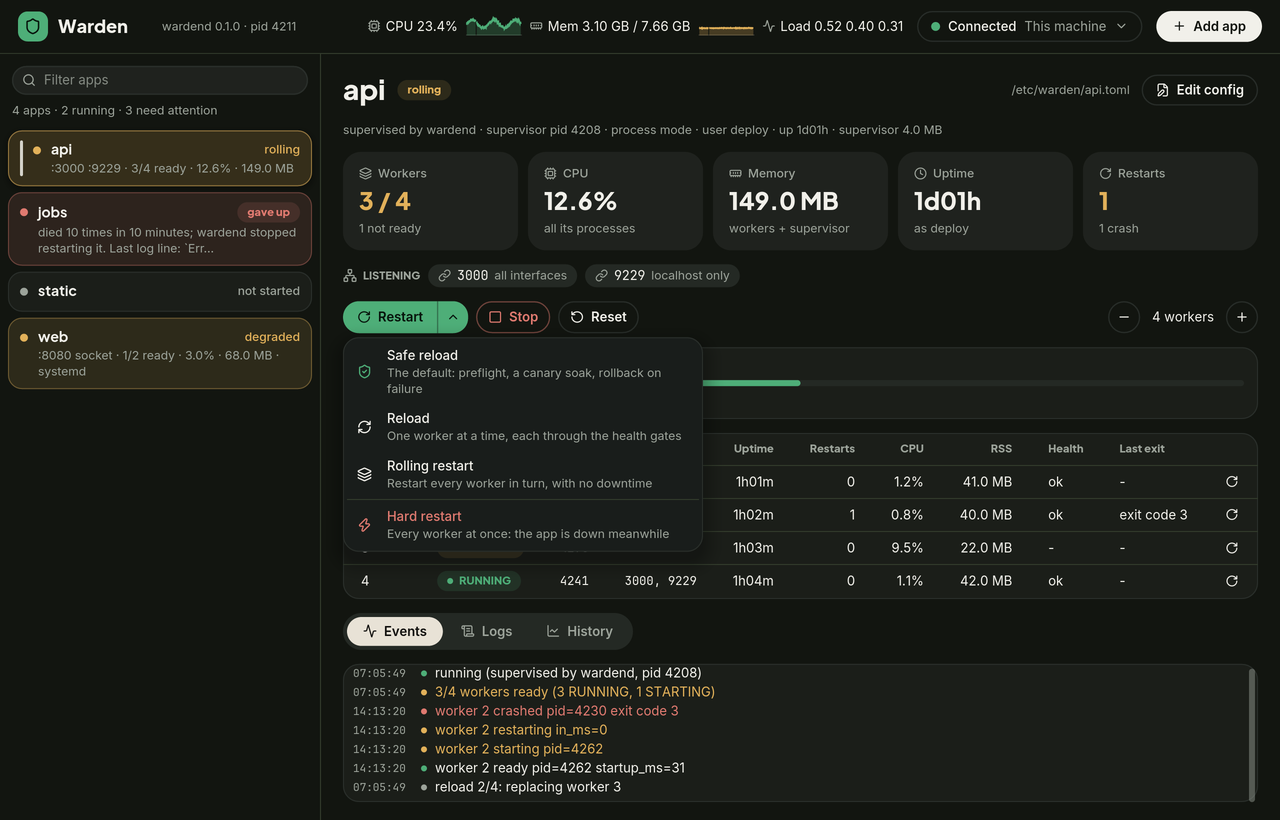
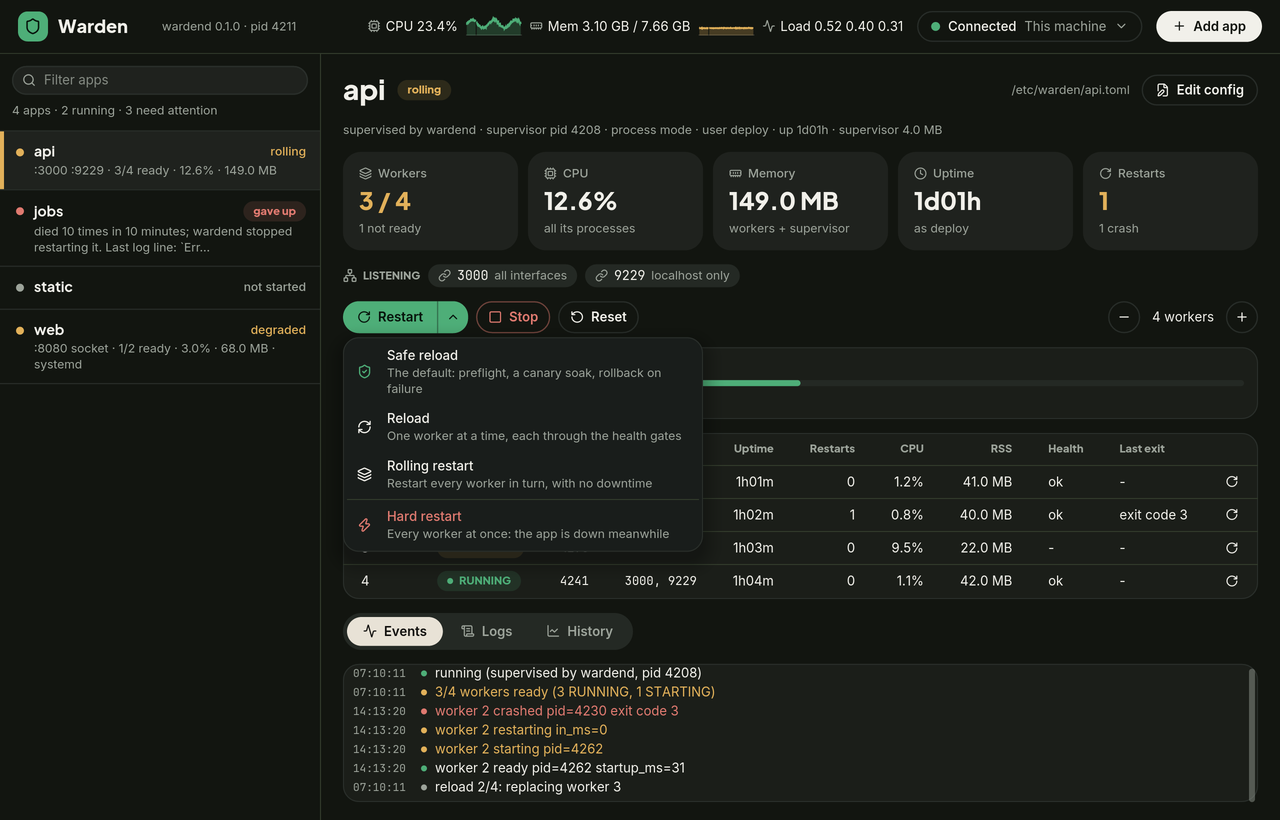
gui: flat app list; the open app has a thick left bar in its status color
Claude-Session: https://claude.ai/code/session_013V4PmR2GtpBB6GmoTsbzxW

Changed region(s): [[0.0, 0.1524, 0.25, 0.4878], [0.2812, 0.8232, 0.3125, 0.8537]]

diff --git a/gui/src/look.rs b/gui/src/look.rs
@@ -53,8 +53,6 @@ pub struct Pal {
     pub box_bg: Color,
     /// The fill of a tile or an input: a little stronger than a box.
     pub tile_bg: Color,
-    /// The fill of what is raised above the page: the selected row.
-    pub raised: Color,
     /// How much of its color a tone's wash takes (the rest is what is behind it).
     pub wash: f32,
     pub accent: Color,
@@ -77,7 +75,6 @@ static LIGHT: Pal = Pal {
     chip: color!(0xefeae1),
     box_bg: color!(0xffffff, 0.55),
     tile_bg: color!(0xefeae1, 0.6),
-    raised: color!(0xffffff, 0.95),
     wash: 0.10,
     accent: color!(0x1b6b45),
     on_accent: color!(0xffffff),
@@ -98,7 +95,6 @@ static DARK: Pal = Pal {
     chip: color!(0x242924),
     box_bg: color!(0xffffff, 0.035),
     tile_bg: color!(0xffffff, 0.055),
-    raised: color!(0xffffff, 0.11),
     wash: 0.13,
     accent: color!(0x4eae78),
     on_accent: color!(0x07140c),
@@ -501,58 +497,47 @@ pub fn ghost(theme: &Theme, status: button::Status) -> button::Style {
     }
 }
 
-/// A row of the app list: a card of its own. Color means status only: what needs
-/// attention is washed and outlined with its color (amber, red). The app that is
-/// shown is raised (a stronger fill, a soft shadow, a thin neutral outline) and
-/// has a bar at its left edge (`marker`), which no status has, so it cannot be
-/// mistaken for one.
-pub fn list_row(selected: bool, attention: Option<Tone>) -> impl Fn(&Theme, button::Status) -> button::Style {
+/// A row of the app list: flat, edge to edge, with nothing around it. The app
+/// that is shown has a veil over the row and a thick bar at its left edge
+/// (`marker`), in the color of its status like the dot and the state label.
+pub fn list_row(selected: bool) -> impl Fn(&Theme, button::Status) -> button::Style {
     move |theme, status| {
         let p = pal(theme);
-        let rest = match (attention, selected) {
-            (Some(t), true) => Color { a: (t.soft(theme).a + 0.05).min(1.0), ..t.soft(theme) },
-            (Some(t), false) => t.soft(theme),
-            (None, true) => p.raised,
-            (None, false) => p.box_bg,
-        };
-        let bg = match status {
-            // Hovering a row makes it a little stronger (it is see-through, so
-            // a shade of black or white would not do).
-            button::Status::Hovered if !selected => Color { a: (rest.a + 0.05).min(1.0), ..rest },
-            button::Status::Pressed => Color { a: (rest.a + 0.09).min(1.0), ..rest },
-            _ => rest,
-        };
-        let color = match (attention, selected) {
-            (Some(t), _) => Color { a: if selected { 0.55 } else { 0.35 }, ..t.color(theme) },
-            (None, true) => Color { a: 0.22, ..p.ink },
-            (None, false) => p.line,
+        let bg = match (selected, status) {
+            (true, _) => Some(p.tile_bg),
+            (false, button::Status::Hovered | button::Status::Pressed) => Some(p.box_bg),
+            (false, _) => None,
         };
         button::Style {
-            background: Some(Background::Color(bg)),
+            background: bg.map(Background::Color),
             text_color: p.ink,
-            border: Border { radius: 14.0.into(), width: 1.0, color },
-            shadow: if selected {
-                iced::Shadow {
-                    color: Color { a: if p.dark { 0.45 } else { 0.10 }, ..Color::BLACK },
-                    offset: iced::Vector::new(0.0, 2.0),
-                    blur_radius: 8.0,
-                }
-            } else {
-                iced::Shadow::default()
-            },
+            border: Border::default(),
             ..button::Style::default()
         }
     }
 }
 
-/// The bar at the left edge of the selected row.
-pub fn marker<'a, Message: 'a>() -> Element<'a, Message> {
+/// The thick bar at the left edge of a row of the app list: on the shown app, in
+/// the color of its status (the dot's), and an empty space of the same width on
+/// the others, so every row's content starts at the same place.
+pub fn marker<'a, Message: 'a>(on: Option<Tone>) -> Element<'a, Message> {
     container(space())
-        .width(3)
+        .width(4)
         .height(Length::Fill)
+        .style(move |theme: &Theme| container::Style {
+            background: on.map(|t| Background::Color(t.color(theme))),
+            ..container::Style::default()
+        })
+        .into()
+}
+
+/// A line across a list, between its rows.
+pub fn hairline<'a, Message: 'a>() -> Element<'a, Message> {
+    container(space())
+        .width(Length::Fill)
+        .height(1)
         .style(|theme: &Theme| container::Style {
-            background: Some(Background::Color(Color { a: 0.85, ..pal(theme).ink })),
-            border: border::rounded(PILL),
+            background: Some(Background::Color(pal(theme).line)),
             ..container::Style::default()
         })
         .into()

diff --git a/gui/src/view.rs b/gui/src/view.rs
@@ -476,9 +476,9 @@ fn app_list(g: &Gui) -> Element<'_, Message> {
             spacing: 8.0,
             side: text_input::Side::Left,
         });
-    let mut rows = Column::new().spacing(6);
+    let mut rows = Column::new();
     for a in &shown {
-        rows = rows.push(app_row(g, a));
+        rows = rows.push(app_row(g, a)).push(look::hairline());
     }
     if shown.is_empty() {
         rows = rows.push(container(small(format!("No app matches “{}”.", g.filter.trim()))).padding([10, 8]));
@@ -486,7 +486,8 @@ fn app_list(g: &Gui) -> Element<'_, Message> {
     container(
         column![
             column![search, small(summary)].spacing(8).padding([12, 12]),
-            scrollable(rows.padding([0, 8]).width(Fill))
+            look::hairline(),
+            scrollable(rows.width(Fill))
                 .direction(scrollable::Direction::Vertical(thin()))
                 .height(Fill)
                 .style(look::scroll),
@@ -531,22 +532,17 @@ fn app_row<'a>(g: &'a Gui, a: &'a App) -> Element<'a, Message> {
     if let (AppState::GaveUp | AppState::Unreachable, Some(p)) = (a.entry.state, &a.entry.problem) {
         c = c.push(small(clip(p, 80).into_owned()));
     }
-    // What needs attention is washed with its color (the list is read for it).
-    let attention = match a.entry.state {
-        AppState::GaveUp | AppState::Unreachable => Some(Tone::Bad),
-        AppState::Starting => Some(Tone::Warn),
-        AppState::Running if a.is_unwell() => Some(Tone::Warn),
-        _ => None,
-    };
-    let mut inner = Row::new().spacing(10);
-    if selected {
-        inner = inner.push(look::marker());
-    }
-    let inner = inner.push(container(dot(tone, 8.0)).padding([6, 0])).push(c.width(Fill));
+    // The same layout for every row: the bar's place (filled on the shown app), then
+    // the dot and the text.
+    let body = row![container(dot(tone, 8.0)).padding([6, 0]), c.width(Fill)].spacing(10);
+    let inner = row![
+        look::marker(selected.then_some(tone)),
+        container(body).padding(iced::Padding { top: 11.0, right: 14.0, bottom: 11.0, left: 12.0 }).width(Fill)
+    ];
     button(inner)
         .width(Fill)
-        .padding([10, 12])
-        .style(look::list_row(selected, attention))
+        .padding(0)
+        .style(look::list_row(selected))
         .on_press(Message::Select(a.name().to_string()))
         .into()
 }

diff --git a/gui/README.md b/gui/README.md
@@ -73,8 +73,10 @@ palette of the author's habit tracker, in a light and a dark variant
 (`WARDEN_GUI_THEME=light` or `dark`; the dark one is the default).
 
 - Color means status and nothing else: the dot, the state label and a faint
-  wash of the row or pill. The app that is shown has its own marker, a bold
-  raised row with a bar at its left edge, which no status uses.
+  wash of a pill. The app list is flat rows with hairlines between them, and
+  the app that is shown has a veil over its row and a thick bar at its left
+  edge in its status color (the dot's); every row's content starts at the
+  same place, with or without the bar.
 - Boxes are see-through (a white veil over the page), so the page shows a
   little through cards and tiles.
 - Type: Plus Jakarta Sans for headings and figures, Inter for text,
